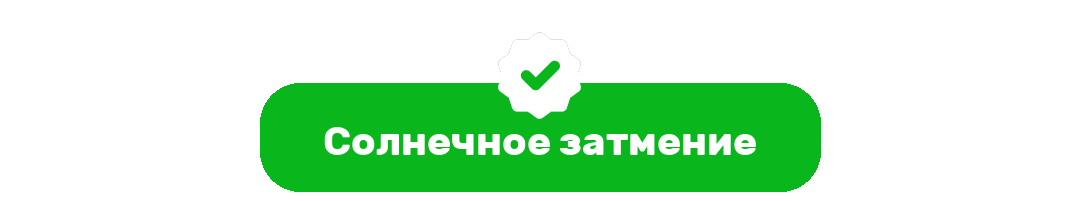
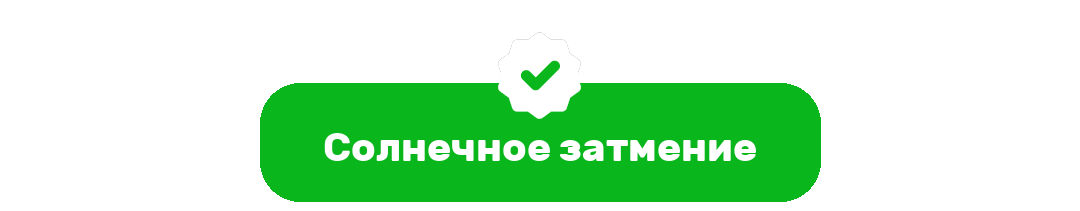
Updated Image Generator

diff --git a/generate_images.py b/generate_images.py
@@ -2,29 +2,33 @@ import os
 import json
 from PIL import Image, ImageDraw, ImageFont
 
-# Настройки
-FONT_PATH = "./assets/fonts/Rubik-Bold.ttf"  # Укажите путь к жирному шрифту Rubik
-FONT_SIZE = 40
-QUESTION_BG_COLOR = "#FFFFFF"
-ANSWER_BG_COLOR = "#09B71D"
-TEXT_COLOR = "#173871"
-PADDING_VERTICAL = 40
-PADDING_HORIZONTAL = 63
-MAX_WIDTH = 903
-BORDER_RADIUS = 40
-OUTLINE_COLOR = "#FFFFFF"
-OUTLINE_WIDTH = 10
-DATA_PATH = "./data/data.json"
-QUESTION_IMAGE_DIR = "./assets/images/questions"
-ANSWER_IMAGE_DIR = "./assets/images/answers"
-NUMBER_IMAGE_DIR = "./assets/images/numbers/v4"  # Директория с номерами
+# Конфигурация
+CONFIG = {
+    "font_path": "./assets/fonts/Rubik-Bold.ttf",
+    "font_size": 40,
+    "question_bg_color": "#FFFFFF",
+    "answer_bg_color": "#09B71D",
+    "question_text_color": "#173871",
+    "answer_text_color": "#FFFFFF",
+    "padding_vertical": 40,
+    "padding_horizontal": 63,
+    "max_width": 903,
+    "border_radius": 40,
+    "outline_color": "#FFFFFF",
+    "outline_width": 10,
+    "success_image_path": "./assets/images/success/success.png",
+    "number_image_dir": "./assets/images/numbers/v4",
+    "question_image_dir": "./assets/images/questions",
+    "answer_image_dir": "./assets/images/answers",
+    "data_path": "./data/data.json",
+    "fixed_width": 1080,
+}
 
 
 def create_rounded_rectangle_with_outline(
     draw, x0, y0, x1, y1, radius, fill, outline_color, outline_width
 ):
     """Создаёт прямоугольник с округлыми углами и обводкой."""
-    # Рисуем обводку
     draw.rounded_rectangle(
         [
             x0 - outline_width,
@@ -35,233 +39,123 @@ def create_rounded_rectangle_with_outline(
         radius=radius + outline_width,
         fill=outline_color,
     )
-    # Рисуем основной прямоугольник
-    draw.rounded_rectangle(
-        [x0, y0, x1, y1],
-        radius=radius,
-        fill=fill,
-    )
+    draw.rounded_rectangle([x0, y0, x1, y1], radius=radius, fill=fill)
 
 
 def wrap_text(text, font, max_width):
     """Переносит текст, если он не помещается в строку."""
     words = text.split()
-    wrapped_text = ""
-    line = ""
+    wrapped_text, line = "", ""
 
     for word in words:
         test_line = f"{line} {word}".strip()
-        line_width = font.getlength(test_line)
-        if line_width <= max_width:
+        if font.getlength(test_line) <= max_width:
             line = test_line
         else:
             wrapped_text += f"{line}\n"
             line = word
 
-    wrapped_text += line
-    return wrapped_text
+    return wrapped_text + line
 
 
-def create_question_image(text, bg_color, save_path, number_image_path):
-    """Создаёт изображение вопроса с наложением номера, с фиксированной шириной 1080."""
-    # Настройка шрифта
-    font = ImageFont.truetype(FONT_PATH, FONT_SIZE)
+def create_image_with_text(
+    text, bg_color, text_color, save_path, config, overlay_image_path=None
+):
+    """Создаёт изображение с текстом, дополнительно накладывая изображение сверху, если требуется."""
+    font = ImageFont.truetype(config["font_path"], config["font_size"])
+    wrapped_text = wrap_text(
+        text, font, config["max_width"] - 2 * config["padding_horizontal"]
+    )
 
-    # Перенос текста
-    wrapped_text = wrap_text(text, font, MAX_WIDTH - 2 * PADDING_HORIZONTAL)
-
-    # Вычисляем размеры текста
     dummy_image = Image.new("RGBA", (1, 1))
     dummy_draw = ImageDraw.Draw(dummy_image)
     text_bbox = dummy_draw.multiline_textbbox((0, 0), wrapped_text, font=font)
-    text_width = text_bbox[2] - text_bbox[0]
-    text_height = text_bbox[3] - text_bbox[1]
+    text_width, text_height = text_bbox[2], text_bbox[3]
 
-    # Устанавливаем ширину и высоту фона с учетом отступов
-    bg_width = text_width + 2 * PADDING_HORIZONTAL + 2 * OUTLINE_WIDTH
-    bg_height = text_height + 2 * PADDING_VERTICAL + 2 * OUTLINE_WIDTH
-
-    # Загружаем изображение номера
-    number_image = Image.open(number_image_path).convert("RGBA")
-    number_width, number_height = number_image.size
-
-    # Общая высота изображения (фон + номер)
-    total_height = bg_height + number_height - 14
-
-    # Фиксированная ширина итогового изображения
-    fixed_width = 1080
-    fixed_height = total_height
-
-    # Создаём изображение с фиксированной шириной и прозрачным фоном
-    image = Image.new("RGBA", (fixed_width, fixed_height), (0, 0, 0, 0))
-    draw = ImageDraw.Draw(image)
-
-    # Вычисляем горизонтальное смещение для центрирования
-    x_offset = (fixed_width - bg_width) // 2
-
-    # Добавляем закругленный фон с обводкой
-    create_rounded_rectangle_with_outline(
-        draw,
-        x_offset + OUTLINE_WIDTH,
-        number_height - 14 + OUTLINE_WIDTH,
-        x_offset + bg_width - OUTLINE_WIDTH,
-        total_height - OUTLINE_WIDTH,
-        BORDER_RADIUS,
-        bg_color,
-        OUTLINE_COLOR,
-        OUTLINE_WIDTH,
+    bg_width = (
+        text_width + 2 * config["padding_horizontal"] + 2 * config["outline_width"]
+    )
+    bg_height = (
+        text_height + 2 * config["padding_vertical"] + 2 * config["outline_width"]
     )
 
-    # Центрируем текст
+    overlay_height = 0
+    if overlay_image_path:
+        overlay_image = Image.open(overlay_image_path).convert("RGBA")
+        overlay_width, overlay_height = overlay_image.size
+
+    total_height = bg_height + overlay_height - 14
+    image = Image.new("RGBA", (config["fixed_width"], total_height), (0, 0, 0, 0))
+    draw = ImageDraw.Draw(image)
+
+    x_offset = (config["fixed_width"] - bg_width) // 2
+    create_rounded_rectangle_with_outline(
+        draw,
+        x_offset + config["outline_width"],
+        overlay_height - 14 + config["outline_width"],
+        x_offset + bg_width - config["outline_width"],
+        total_height - config["outline_width"],
+        config["border_radius"],
+        bg_color,
+        config["outline_color"],
+        config["outline_width"],
+    )
+
     text_x = x_offset + (bg_width - text_width) // 2
     text_y = (
-        number_height
+        overlay_height
         - 14
-        + OUTLINE_WIDTH
-        + (bg_height - 2 * OUTLINE_WIDTH - text_height) // 2
+        + config["outline_width"]
+        + (bg_height - 2 * config["outline_width"] - text_height) // 2
     )
-
-    # Добавляем обводку текста
-    outline_color = "#000000"
-    outline_width = 0
-    for offset_x in range(-outline_width, outline_width + 1):
-        for offset_y in range(-outline_width, outline_width + 1):
-            if offset_x != 0 or offset_y != 0:
-                draw.multiline_text(
-                    (text_x + offset_x, text_y + offset_y),
-                    wrapped_text,
-                    font=font,
-                    fill=outline_color,
-                    align="center",
-                )
-
-    # Рисуем основной текст
     draw.multiline_text(
-        (text_x, text_y), wrapped_text, font=font, fill=TEXT_COLOR, align="center"
+        (text_x, text_y), wrapped_text, font=font, fill=text_color, align="center"
     )
 
-    # Накладываем изображение номера
-    number_x = x_offset + (bg_width - number_width) // 2
-    number_y = 32
-    image.paste(number_image, (number_x, number_y), number_image)
+    if overlay_image_path:
+        overlay_x = x_offset + (bg_width - overlay_width) // 2
+        image.paste(overlay_image, (overlay_x, 32), overlay_image)
 
-    # Сохраняем изображение
     image.save(save_path)
 
 
-def create_answer_image(text, bg_color, save_path):
-    """Создаёт изображение ответа с фиксированной шириной 1080 и добавляет изображение успеха сверху после отрисовки текста."""
-    # Настройка шрифта
-    font = ImageFont.truetype(FONT_PATH, FONT_SIZE)
+def process_data(config):
+    """Обрабатывает данные и создаёт изображения для вопросов и ответов."""
+    os.makedirs(config["question_image_dir"], exist_ok=True)
+    os.makedirs(config["answer_image_dir"], exist_ok=True)
 
-    # Перенос текста
-    wrapped_text = wrap_text(text, font, MAX_WIDTH - 2 * PADDING_HORIZONTAL)
-
-    # Вычисляем размеры текста
-    dummy_image = Image.new("RGBA", (1, 1))
-    dummy_draw = ImageDraw.Draw(dummy_image)
-    text_bbox = dummy_draw.multiline_textbbox((0, 0), wrapped_text, font=font)
-    text_width = text_bbox[2] - text_bbox[0]
-    text_height = text_bbox[3] - text_bbox[1]
-
-    # Устанавливаем ширину и высоту фона с учетом отступов
-    bg_width = text_width + 2 * PADDING_HORIZONTAL + 2 * OUTLINE_WIDTH
-    bg_height = text_height + 2 * PADDING_VERTICAL + 2 * OUTLINE_WIDTH
-
-    # Загружаем изображение успеха
-    success_image_path = "./assets/images/success/success.png"
-    success_image = Image.open(success_image_path).convert("RGBA")
-    success_width, success_height = success_image.size
-
-    # Общая высота изображения (успех + фон)
-    total_height = bg_height + success_height - 14
-
-    # Фиксированная ширина итогового изображения
-    fixed_width = 1080
-    fixed_height = total_height
-
-    # Создаём изображение с фиксированной шириной и прозрачным фоном
-    image = Image.new("RGBA", (fixed_width, fixed_height), (0, 0, 0, 0))
-    draw = ImageDraw.Draw(image)
-
-    # Вычисляем горизонтальное смещение для центрирования
-    x_offset = (fixed_width - bg_width) // 2
-
-    # Добавляем закругленный фон с обводкой
-    create_rounded_rectangle_with_outline(
-        draw,
-        x_offset + OUTLINE_WIDTH,
-        success_height - 14 + OUTLINE_WIDTH,
-        x_offset + bg_width - OUTLINE_WIDTH,
-        total_height - OUTLINE_WIDTH,
-        BORDER_RADIUS,
-        bg_color,
-        OUTLINE_COLOR,
-        OUTLINE_WIDTH,
-    )
-
-    success_width, success_height = success_image.size
-    text_x = x_offset + (bg_width - text_width) // 2
-    text_y = (
-        success_height
-        - 20
-        + OUTLINE_WIDTH
-        + (bg_height - 2 * OUTLINE_WIDTH - text_height) // 2
-    )
-
-    # Добавляем обводку текста
-    outline_color = "#000000"
-    outline_width = 0
-    for offset_x in range(-outline_width, outline_width + 1):
-        for offset_y in range(-outline_width, outline_width + 1):
-            if offset_x != 0 or offset_y != 0:
-                draw.multiline_text(
-                    (text_x + offset_x, text_y + offset_y),
-                    wrapped_text,
-                    font=font,
-                    fill=outline_color,
-                    align="center",
-                )
-
-    # Рисуем основной текст
-    draw.multiline_text(
-        (text_x, text_y), wrapped_text, font=font, fill="#FFFF", align="center"
-    )
-
-    # Накладываем изображение успеха сверху после отрисовки основного текста
-    success_x = x_offset + (bg_width - success_width) // 2
-    success_y = 32
-    image.paste(success_image, (success_x, success_y), success_image)
-
-    # Сохраняем изображение
-    image.save(save_path)
-
-
-def main():
-    # Создаём директории, если их нет
-    os.makedirs(QUESTION_IMAGE_DIR, exist_ok=True)
-    os.makedirs(ANSWER_IMAGE_DIR, exist_ok=True)
-
-    # Загружаем данные
-    with open(DATA_PATH, "r", encoding="utf-8") as file:
+    with open(config["data_path"], "r", encoding="utf-8") as file:
         data = json.load(file)
 
-    # Генерируем изображения
     for item in data["questions"]:
-        question_text = item["question"]
-        answer_text = item["answer"]
         number = item["number"]
-        question_path = os.path.join(QUESTION_IMAGE_DIR, f"question_{number}.png")
-        answer_path = os.path.join(ANSWER_IMAGE_DIR, f"answer_{number}.png")
-        number_image_path = os.path.join(NUMBER_IMAGE_DIR, f"number_{number}.png")
-
-        # Создаём изображение для вопроса с наложением номера
-        create_question_image(
-            question_text, QUESTION_BG_COLOR, question_path, number_image_path
+        question_image_path = os.path.join(
+            config["question_image_dir"], f"question_{number}.png"
         )
-        # Создаём изображение для ответа
-        create_answer_image(answer_text, ANSWER_BG_COLOR, answer_path)
+        answer_image_path = os.path.join(
+            config["answer_image_dir"], f"answer_{number}.png"
+        )
+        number_image_path = os.path.join(
+            config["number_image_dir"], f"number_{number}.png"
+        )
+
+        create_image_with_text(
+            item["question"],
+            config["question_bg_color"],
+            config["question_text_color"],
+            question_image_path,
+            config,
+            number_image_path,
+        )
+        create_image_with_text(
+            item["answer"],
+            config["answer_bg_color"],
+            config["answer_text_color"],
+            answer_image_path,
+            config,
+            config["success_image_path"],
+        )
 
 
 if __name__ == "__main__":
-    main()
+    process_data(CONFIG)
